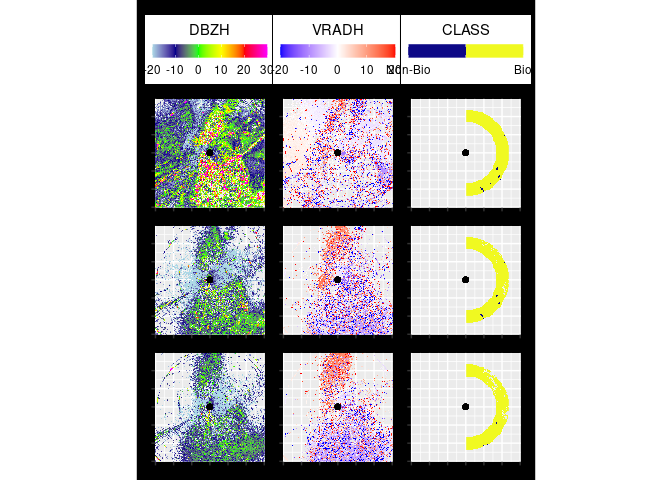
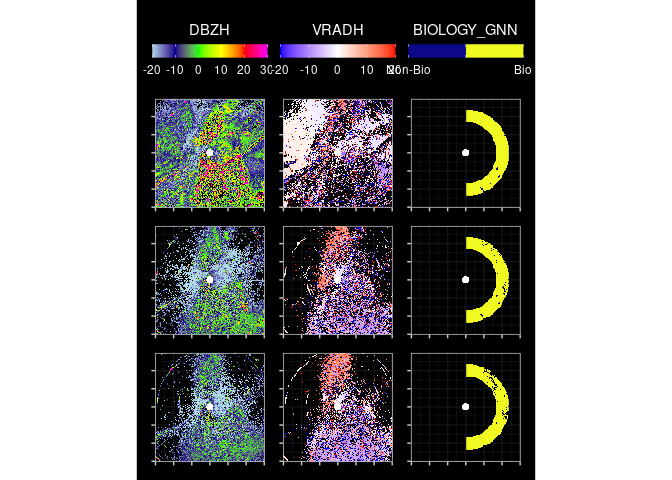
Silence warnings, infer function

diff --git a/README.md b/README.md
@@ -30,6 +30,7 @@ This is a basic example which shows you how to solve a common problem:
 ``` r
 devtools::load_all()
 #> ℹ Loading birdCloudGnnR
+sp::set_evolution_status(2L)
 #> The legacy packages maptools, rgdal, and rgeos, underpinning the sp package,
 #> which was just loaded, will retire in October 2023.
 #> Please refer to R-spatial evolution reports for details, especially
@@ -38,40 +39,14 @@ devtools::load_all()
 #> package maintainers should consider adding sf to Suggests:.
 #> The sp package is now running under evolution status 2
 #>      (status 2 uses the sf package in place of rgdal)
-#> 
-#> Please note that rgdal will be retired during October 2023,
-#> plan transition to sf/stars/terra functions using GDAL and PROJ
-#> at your earliest convenience.
-#> See https://r-spatial.org/r/2023/05/15/evolution4.html and https://github.com/r-spatial/evolution
-#> rgdal: version: 1.6-7, (SVN revision 1203)
-#> Geospatial Data Abstraction Library extensions to R successfully loaded
-#> Loaded GDAL runtime: GDAL 3.4.1, released 2021/12/27
-#> Path to GDAL shared files: /usr/share/gdal
-#> GDAL binary built with GEOS: TRUE 
-#> Loaded PROJ runtime: Rel. 8.2.1, January 1st, 2022, [PJ_VERSION: 821]
-#> Path to PROJ shared files: /home/bart/.local/share/proj:/usr/share/proj
-#> PROJ CDN enabled: FALSE
-#> Linking to sp version:1.6-1
-#> To mute warnings of possible GDAL/OSR exportToProj4() degradation,
-#> use options("rgdal_show_exportToProj4_warnings"="none") before loading sp or rgdal.
-#> 
-#> Please note that 'maptools' will be retired during October 2023,
-#> plan transition at your earliest convenience (see
-#> https://r-spatial.org/r/2023/05/15/evolution4.html and earlier blogs
-#> for guidance);some functionality will be moved to 'sp'.
-#>  Checking rgeos availability: FALSE
-sp::set_evolution_status(2L)
 #> [1] 2
 require(reticulate)
 #> Loading required package: reticulate
 require(bioRad)
 #> Loading required package: bioRad
-#> Welcome to bioRad version 0.6.2
-#> Warning: Docker daemon is not running
-#> Warning: bioRad functionality requiring Docker has been disabled
-#> 
-#> To enable Docker functionality, start Docker and run 'check_docker()'
-#> in R
+#> Welcome to bioRad version 0.7.0.9603
+#> Assigning sp_evolution_status to 2. See sp::get_evolution_status()
+#> This is required until the 'sp' package deprecates 'rgdal'
 require(ggplot2)
 #> Loading required package: ggplot2
 require(dplyr)
@@ -113,215 +88,31 @@ features <- c(
 )
 rds <- import("bird_cloud_gnn.radar_dataset")
 rr <- r %>% filter(range < 24000, range > 17000, z < 10000, azimuth < 180)
-nrow(rr)
-#> [1] 64849
 rm(r)
-gc()
-#>            used  (Mb) gc trigger   (Mb)  max used   (Mb)
-#> Ncells  4523611 241.6    8291058  442.8   5982537  319.6
-#> Vcells 72721532 554.9  237913405 1815.2 295697915 2256.0
-rr$CLASS <- 1 # RadarDataSet selects for existing labels
+rr$BIOLOGY_GNN <- 0 # RadarDataSet selects for existing labels
 system.time(l <- rds$RadarDataset(rr %>% select(-scan_id),
-  features = features, target = "CLASS", max_poi_per_label = 500000L,
+  features = features, target = "BIOLOGY_GNN", max_poi_per_label = 500000L,
   num_neighbours = 50, max_edge_distance = 650
 ))
 #>    user  system elapsed 
-#>   7.778   0.852   8.631
+#>   8.180   1.406   9.944
 assertthat::assert_that(l$`__len__`() == nrow(rr))
 #> [1] TRUE
-gcn <- import("bird_cloud_gnn.gnn_model")
-model <- gcn$GCN(length(features), h_feats = 32L, num_classes = 2L)
-torch <- import("torch")
-model$load_state_dict(torch$load("/home/bart/testModel.pth"))
-#> <All keys matched successfully>
-model$eval()
-#> GCN(
-#>   (conv1): GraphConv(in=12, out=32, normalization=both, activation=None)
-#>   (conv2): GraphConv(in=32, out=2, normalization=both, activation=None)
-#> )
-rr$CLASS <- c(model$infer(dataset = l, batch_size = 1024L))
-table(rr$CLASS)
+rr$BIOLOGY_GNN <- infer(l, "/home/bart/testModel.pth",
+  n_features = length(features)
+)
+table(rr$BIOLOGY_GNN)
 #> 
 #>     0     1 
 #> 15109 49740
-mean(rr$CLASS)
+mean(rr$BIOLOGY_GNN)
 #> [1] 0.7670126
-pvol2 <- dataframe_into_pvol(rr, pvol, to_add = "CLASS")
+pvol2 <- dataframe_into_pvol(rr, pvol, to_add = "BIOLOGY_GNN")
 e <- unique(get_elevation_angles(pvol2))[1:3]
 ppis <- plot_scans_ppis(pvol2, e,
-  params = c("DBZH", "VRADH", "CLASS"),
+  params = c("DBZH", "VRADH", "BIOLOGY_GNN"),
   range_max = 30000
 )
-#> Warning in eval(nn <- (calc[[i]]), x$params): NaNs produced
-#> Warning: PROJ support is provided by the sf and terra packages among others
-
-#> Warning: PROJ support is provided by the sf and terra packages among others
-
-#> Warning: PROJ support is provided by the sf and terra packages among others
-
-#> Warning: PROJ support is provided by the sf and terra packages among others
-
-#> Warning: PROJ support is provided by the sf and terra packages among others
-
-#> Warning: PROJ support is provided by the sf and terra packages among others
-
-#> Warning: PROJ support is provided by the sf and terra packages among others
-
-#> Warning: PROJ support is provided by the sf and terra packages among others
-
-#> Warning: PROJ support is provided by the sf and terra packages among others
-
-#> Warning: PROJ support is provided by the sf and terra packages among others
-
-#> Warning: PROJ support is provided by the sf and terra packages among others
-
-#> Warning: PROJ support is provided by the sf and terra packages among others
-
-#> Warning: PROJ support is provided by the sf and terra packages among others
-
-#> Warning: PROJ support is provided by the sf and terra packages among others
-
-#> Warning: PROJ support is provided by the sf and terra packages among others
-
-#> Warning: PROJ support is provided by the sf and terra packages among others
-
-#> Warning: PROJ support is provided by the sf and terra packages among others
-
-#> Warning: PROJ support is provided by the sf and terra packages among others
-#> Coordinate system already present. Adding new coordinate system, which will
-#> replace the existing one.
-#> Coordinate system already present. Adding new coordinate system, which will
-#> replace the existing one.
-#> Scale for fill is already present.
-#> Adding another scale for fill, which will replace the existing scale.
-#> Coordinate system already present. Adding new coordinate system, which will
-#> replace the existing one.
-#> Warning in eval(nn <- (calc[[i]]), x$params): NaNs produced
-
-#> Warning in eval(nn <- (calc[[i]]), x$params): PROJ support is provided by the
-#> sf and terra packages among others
-
-#> Warning in eval(nn <- (calc[[i]]), x$params): PROJ support is provided by the
-#> sf and terra packages among others
-
-#> Warning in eval(nn <- (calc[[i]]), x$params): PROJ support is provided by the
-#> sf and terra packages among others
-
-#> Warning in eval(nn <- (calc[[i]]), x$params): PROJ support is provided by the
-#> sf and terra packages among others
-
-#> Warning in eval(nn <- (calc[[i]]), x$params): PROJ support is provided by the
-#> sf and terra packages among others
-
-#> Warning in eval(nn <- (calc[[i]]), x$params): PROJ support is provided by the
-#> sf and terra packages among others
-
-#> Warning in eval(nn <- (calc[[i]]), x$params): PROJ support is provided by the
-#> sf and terra packages among others
-
-#> Warning in eval(nn <- (calc[[i]]), x$params): PROJ support is provided by the
-#> sf and terra packages among others
-
-#> Warning in eval(nn <- (calc[[i]]), x$params): PROJ support is provided by the
-#> sf and terra packages among others
-
-#> Warning in eval(nn <- (calc[[i]]), x$params): PROJ support is provided by the
-#> sf and terra packages among others
-
-#> Warning in eval(nn <- (calc[[i]]), x$params): PROJ support is provided by the
-#> sf and terra packages among others
-
-#> Warning in eval(nn <- (calc[[i]]), x$params): PROJ support is provided by the
-#> sf and terra packages among others
-
-#> Warning in eval(nn <- (calc[[i]]), x$params): PROJ support is provided by the
-#> sf and terra packages among others
-
-#> Warning in eval(nn <- (calc[[i]]), x$params): PROJ support is provided by the
-#> sf and terra packages among others
-
-#> Warning in eval(nn <- (calc[[i]]), x$params): PROJ support is provided by the
-#> sf and terra packages among others
-
-#> Warning in eval(nn <- (calc[[i]]), x$params): PROJ support is provided by the
-#> sf and terra packages among others
-
-#> Warning in eval(nn <- (calc[[i]]), x$params): PROJ support is provided by the
-#> sf and terra packages among others
-
-#> Warning in eval(nn <- (calc[[i]]), x$params): PROJ support is provided by the
-#> sf and terra packages among others
-#> Coordinate system already present. Adding new coordinate system, which will
-#> replace the existing one.
-#> Coordinate system already present. Adding new coordinate system, which will
-#> replace the existing one.
-#> Scale for fill is already present.
-#> Adding another scale for fill, which will replace the existing scale.
-#> Coordinate system already present. Adding new coordinate system, which will
-#> replace the existing one.
-#> Warning in eval(nn <- (calc[[i]]), x$params): NaNs produced
-
-#> Warning in eval(nn <- (calc[[i]]), x$params): PROJ support is provided by the
-#> sf and terra packages among others
-
-#> Warning in eval(nn <- (calc[[i]]), x$params): PROJ support is provided by the
-#> sf and terra packages among others
-
-#> Warning in eval(nn <- (calc[[i]]), x$params): PROJ support is provided by the
-#> sf and terra packages among others
-
-#> Warning in eval(nn <- (calc[[i]]), x$params): PROJ support is provided by the
-#> sf and terra packages among others
-
-#> Warning in eval(nn <- (calc[[i]]), x$params): PROJ support is provided by the
-#> sf and terra packages among others
-
-#> Warning in eval(nn <- (calc[[i]]), x$params): PROJ support is provided by the
-#> sf and terra packages among others
-
-#> Warning in eval(nn <- (calc[[i]]), x$params): PROJ support is provided by the
-#> sf and terra packages among others
-
-#> Warning in eval(nn <- (calc[[i]]), x$params): PROJ support is provided by the
-#> sf and terra packages among others
-
-#> Warning in eval(nn <- (calc[[i]]), x$params): PROJ support is provided by the
-#> sf and terra packages among others
-
-#> Warning in eval(nn <- (calc[[i]]), x$params): PROJ support is provided by the
-#> sf and terra packages among others
-
-#> Warning in eval(nn <- (calc[[i]]), x$params): PROJ support is provided by the
-#> sf and terra packages among others
-
-#> Warning in eval(nn <- (calc[[i]]), x$params): PROJ support is provided by the
-#> sf and terra packages among others
-
-#> Warning in eval(nn <- (calc[[i]]), x$params): PROJ support is provided by the
-#> sf and terra packages among others
-
-#> Warning in eval(nn <- (calc[[i]]), x$params): PROJ support is provided by the
-#> sf and terra packages among others
-
-#> Warning in eval(nn <- (calc[[i]]), x$params): PROJ support is provided by the
-#> sf and terra packages among others
-
-#> Warning in eval(nn <- (calc[[i]]), x$params): PROJ support is provided by the
-#> sf and terra packages among others
-
-#> Warning in eval(nn <- (calc[[i]]), x$params): PROJ support is provided by the
-#> sf and terra packages among others
-
-#> Warning in eval(nn <- (calc[[i]]), x$params): PROJ support is provided by the
-#> sf and terra packages among others
-#> Coordinate system already present. Adding new coordinate system, which will
-#> replace the existing one.
-#> Coordinate system already present. Adding new coordinate system, which will
-#> replace the existing one.
-#> Scale for fill is already present.
-#> Adding another scale for fill, which will replace the existing scale.
-#> Coordinate system already present. Adding new coordinate system, which will
-#> replace the existing one.
 
 patchwork::wrap_plots(ppis, nrow = length(e)) &
   ggplot2::theme(
